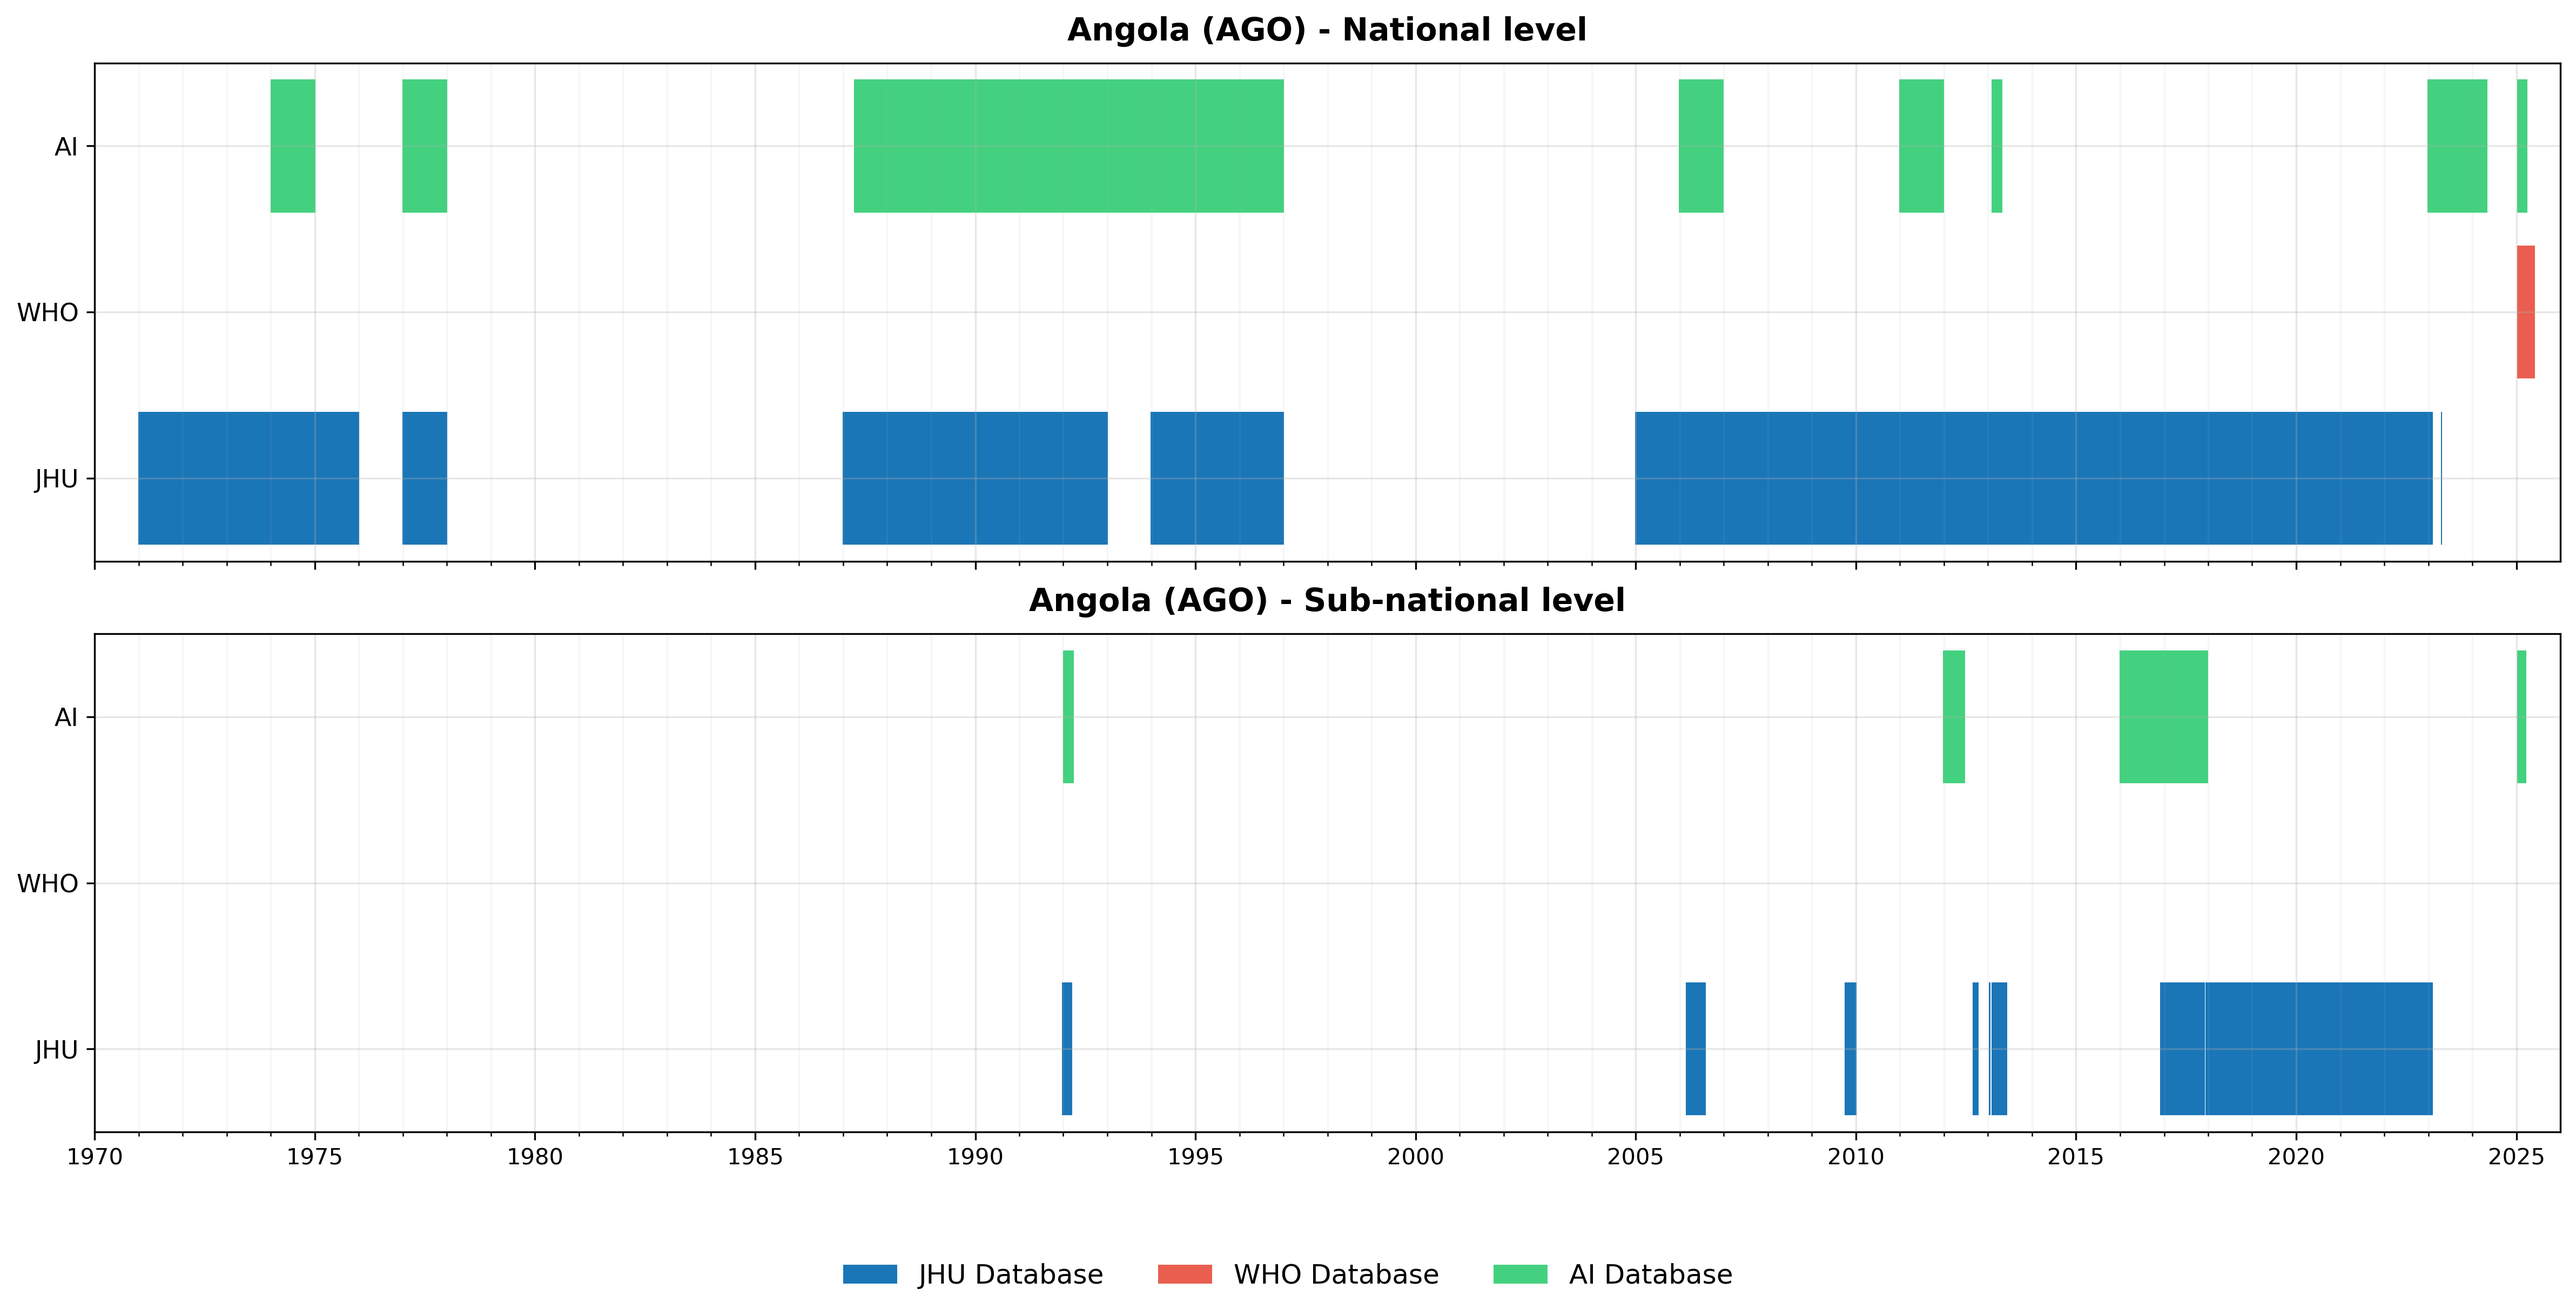
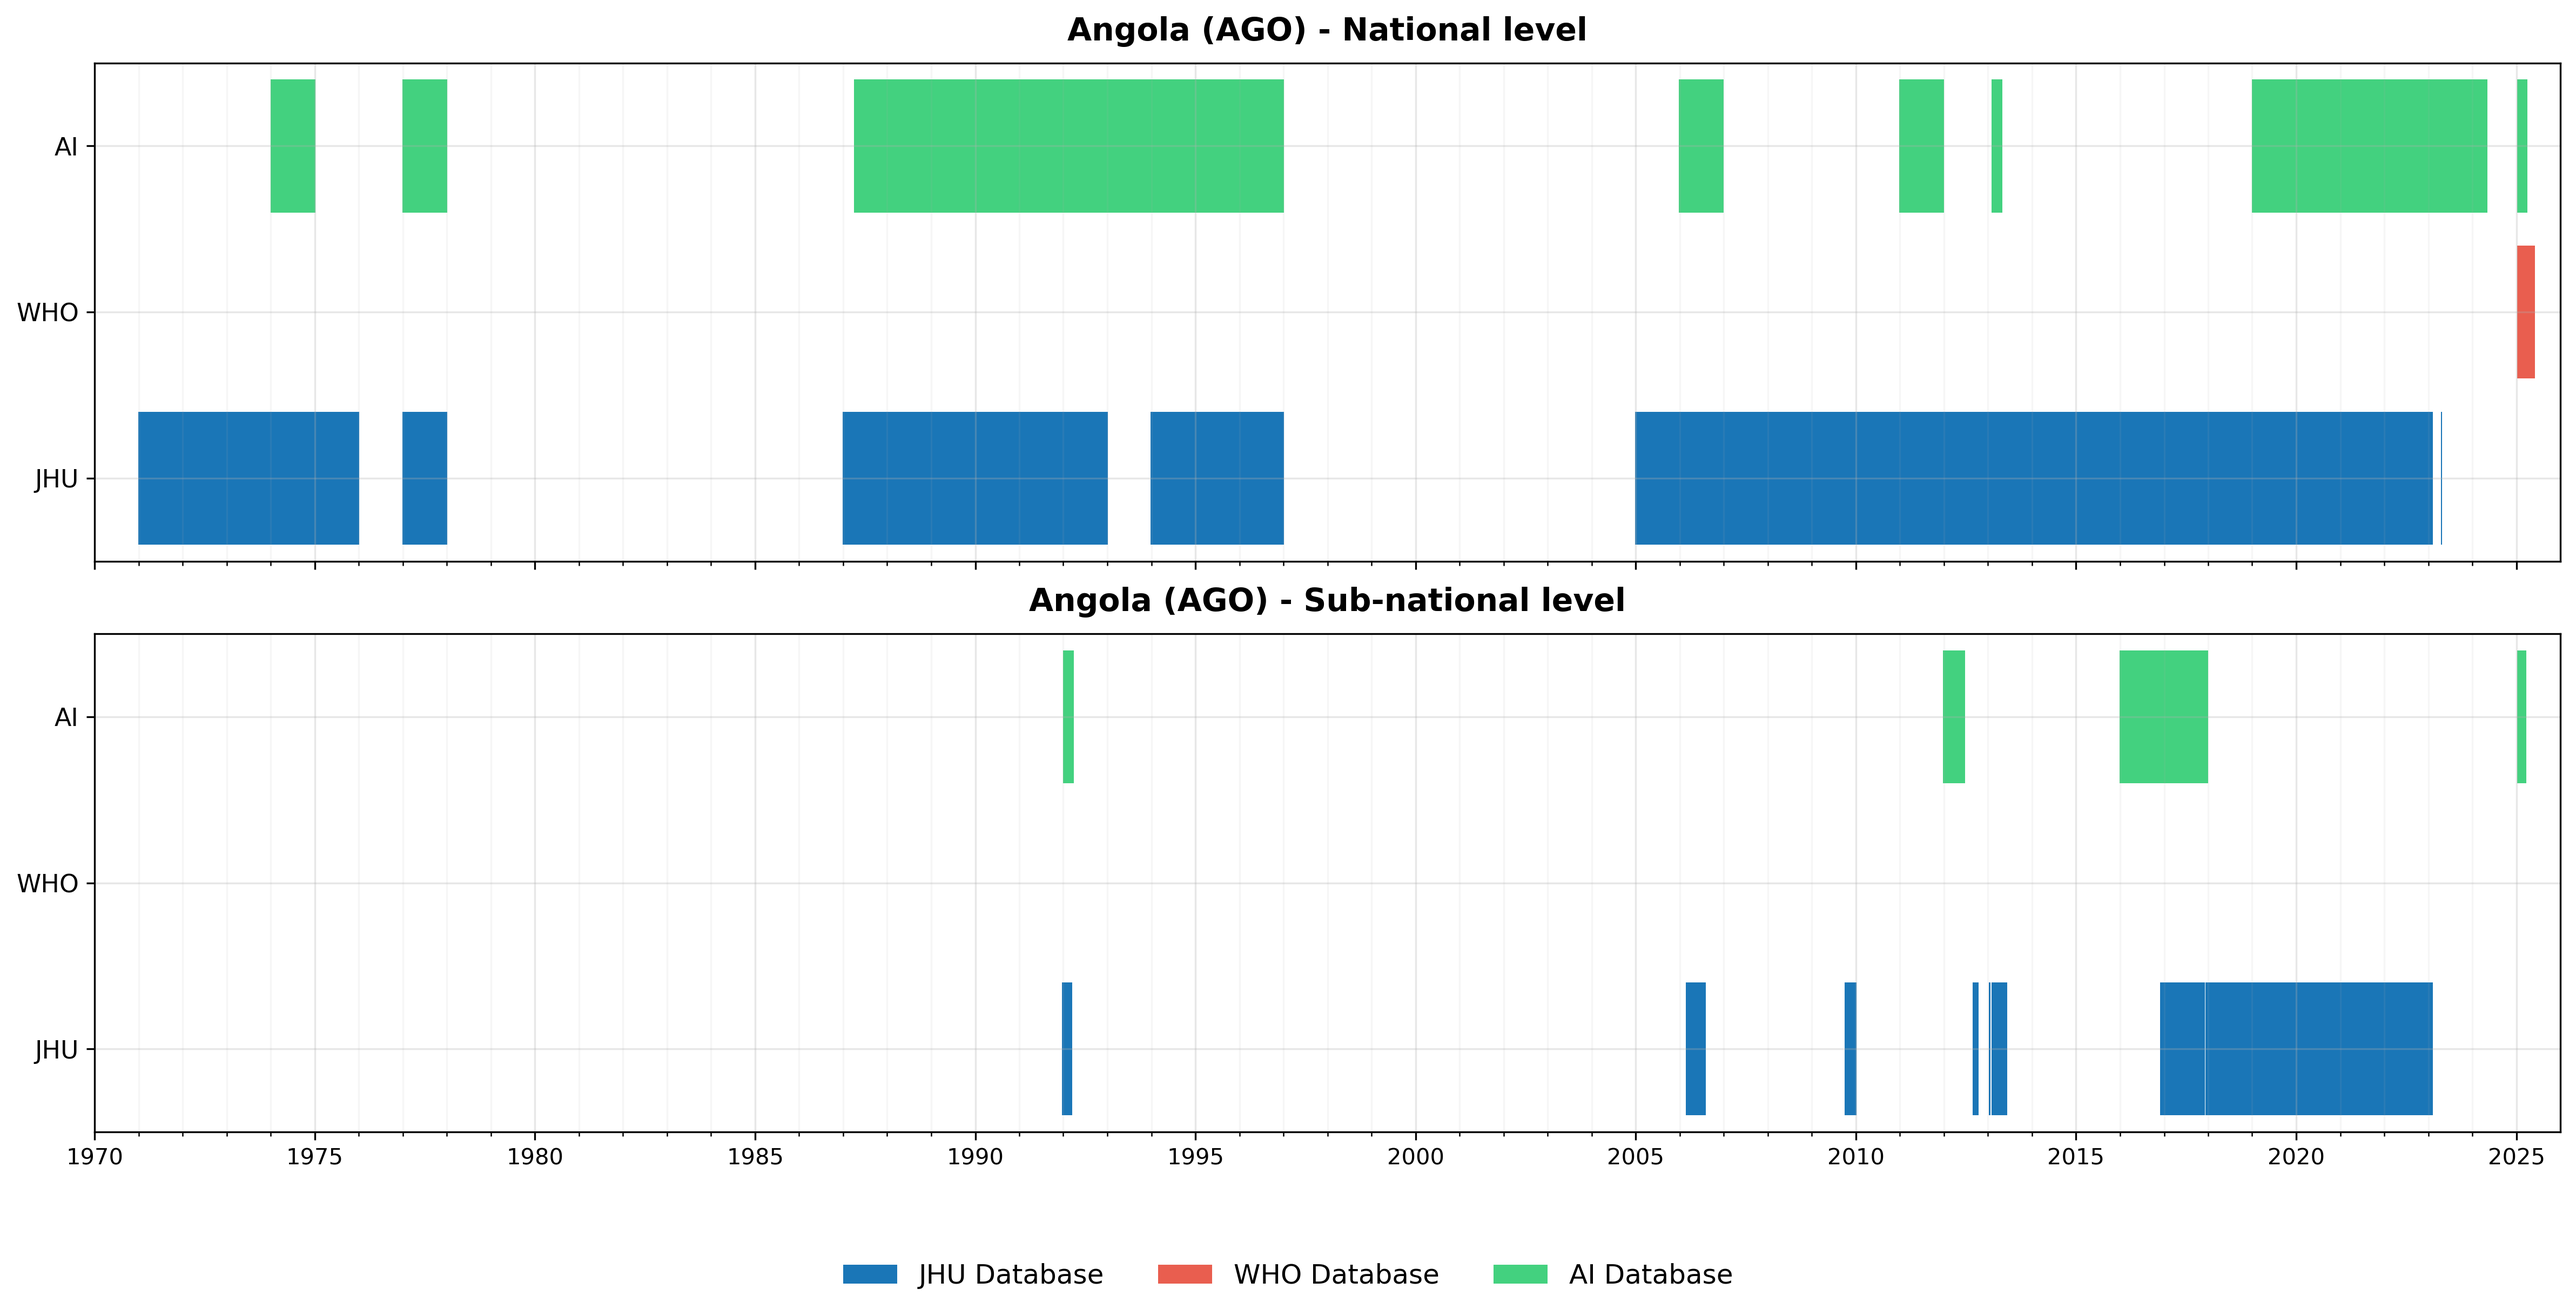
Auto-update dashboard data - 2025-08-05 15:13:33 - Generated with Claude Code

Changed region(s): [[0.8748, 0.0623, 0.9685, 0.187]]

diff --git a/dashboard/dashboard.html b/dashboard/dashboard.html
@@ -1988,15 +1988,15 @@
                 "country": "Angola",
                 "iso": "AGO",
                 "status": "PENDING",
-                "datetime": "2025-08-05 15:09:19",
-                "sources": 15,
-                "observations": 27,
+                "datetime": "2025-08-05 15:12:52",
+                "sources": 16,
+                "observations": 28,
                 "date_range": "1974-2025",
                 "priority": "MEDIUM",
                 "execution_time": 2,
                 "queries": 9,
                 "yield_pct": 222.2,
-                "notes": "Workflow in progress - 2 of 7 agents started; 27 AI observations collected; 15 sources documented"
+                "notes": "Workflow in progress - 2 of 7 agents started; 28 AI observations collected; 16 sources documented | Manual: Workflow in progress - 2 of 7 agents started; 27 AI observations collected; 15 sources documented"
         },
         {
                 "country": "Burundi",
